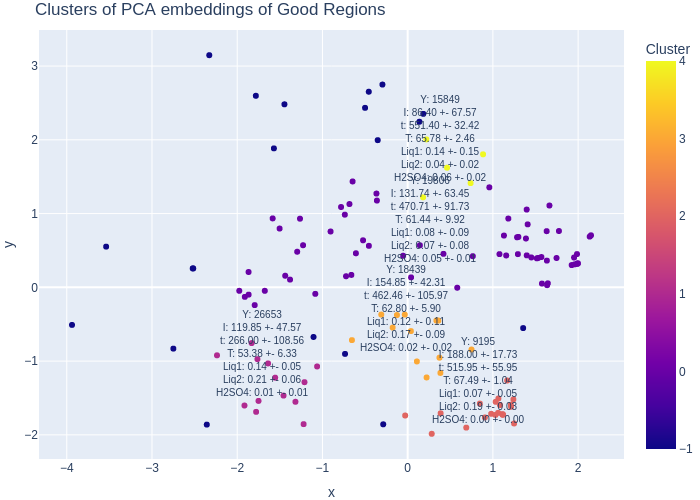
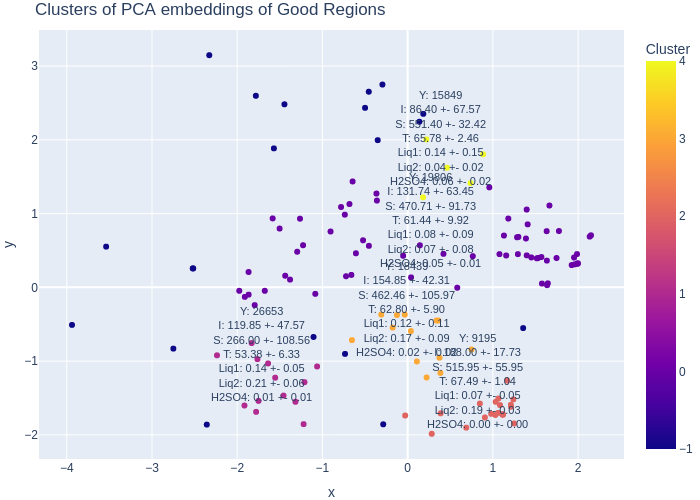
clustering, data and good-data-regions plotting

Changed region(s): [[0.51, 0.18, 0.75, 0.87], [0.3, 0.6, 0.45, 0.81]]

diff --git a/analysis/plot_data.py b/analysis/plot_data.py
@@ -36,7 +36,7 @@ from plotting_helpers import *
 var_names_short = {
     "Avg slope": "Y",
     "current_density": "I",
-    "deposition_time": "t",
+    "deposition_time": "S",
     "temperature": "T",
     "liquid1": "Liq1",
     "liquid2": "Liq2",
@@ -265,7 +265,7 @@ for embedding, method in zip([embedding_pca, embedding_umap], ["PCA", "UMAP"]):
                     text=center_text,
                     showarrow=True,
                     arrowhead=1,
-                    font=dict(size=10)  # Reduce text size
+                    font=dict(size=11)  # Reduce text size
                 )
 
         fig.update_layout(
@@ -475,7 +475,7 @@ for embedding, method in zip([embedding_tsne, embedding_umap], ["t-SNE", "UMAP"]
                     text=center_text,
                     showarrow=True,
                     arrowhead=1,
-                    font=dict(size=10)  # Reduce text size
+                    font=dict(size=11)  # Reduce text size
                 )
 
         fig.update_layout(
